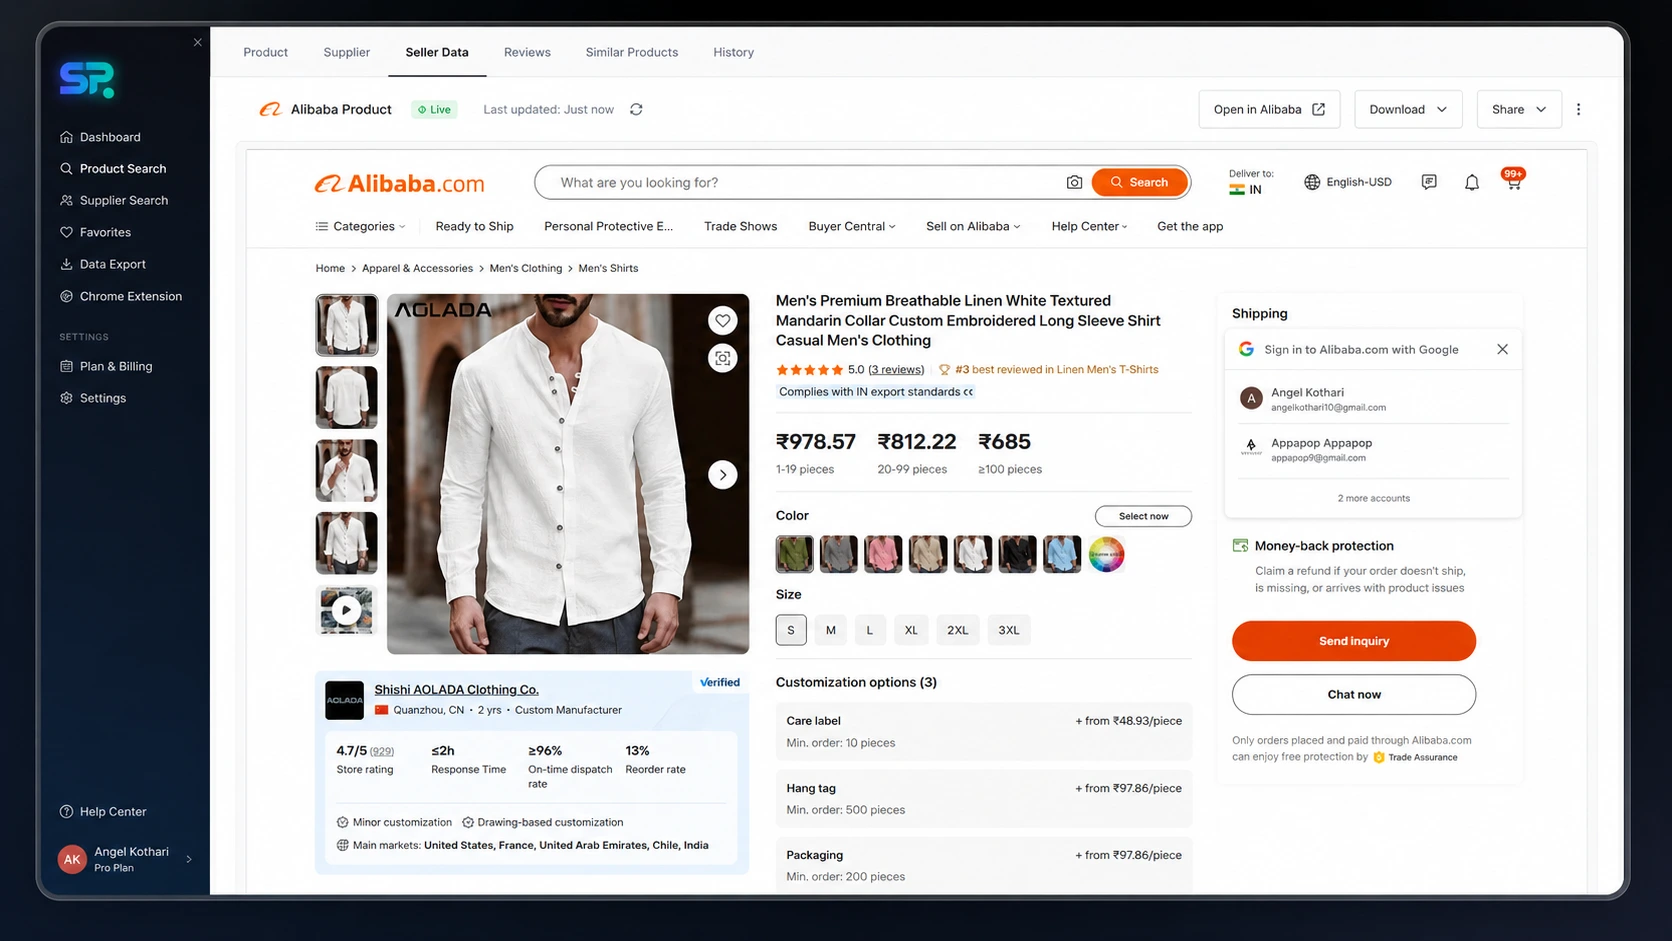
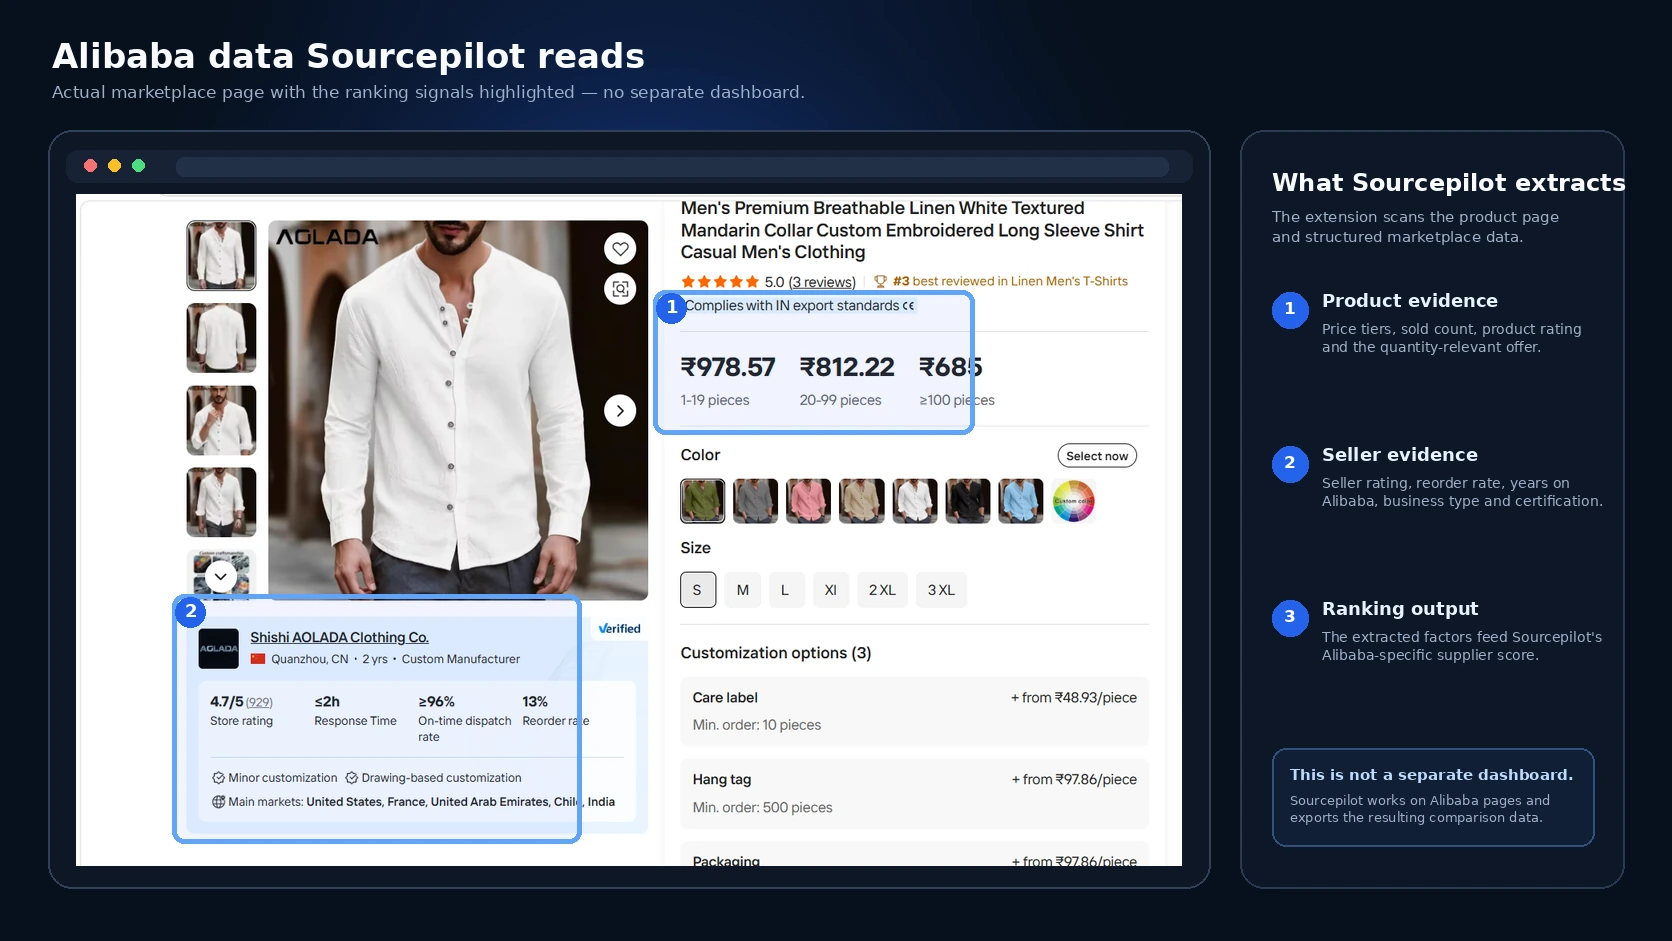
Add files via upload

diff --git a/styles.css b/styles.css
@@ -121,7 +121,7 @@ p { color: var(--muted); }
 
 .hero { position: relative; overflow: hidden; padding: 118px 0 88px; }
 .hero::before { content: ""; position: absolute; inset: 0; pointer-events: none; background-image: linear-gradient(rgba(148,163,184,.035) 1px, transparent 1px), linear-gradient(90deg, rgba(148,163,184,.035) 1px, transparent 1px); background-size: 48px 48px; mask-image: linear-gradient(to bottom, #000, transparent 92%); }
-.hero-grid { position: relative; display: grid; grid-template-columns: 1.05fr .95fr; align-items: center; gap: 64px; }
+.hero-grid { position: relative; display: grid; grid-template-columns: .78fr 1.22fr; align-items: center; gap: 44px; }
 .hero-copy { position: relative; z-index: 2; }
 .hero-copy > p { max-width: 690px; margin-bottom: 34px; font-size: clamp(1.05rem, 2vw, 1.25rem); }
 .hero-badge { display: inline-flex; align-items: center; gap: 9px; margin-bottom: 26px; padding: 7px 12px; border: 1px solid rgba(96,165,250,.23); border-radius: 999px; color: #bfdbfe; background: rgba(30,64,175,.14); font-size: .78rem; font-weight: 800; letter-spacing: .07em; text-transform: uppercase; }
@@ -129,7 +129,7 @@ p { color: var(--muted); }
 .hero-actions { display: flex; flex-wrap: wrap; gap: 14px; margin-bottom: 30px; }
 .hero-points { display: flex; flex-wrap: wrap; gap: 11px 20px; padding: 0; margin: 0; list-style: none; color: #cbd5e1; font-size: .88rem; }
 .hero-points li::before { content: "✓"; margin-right: 7px; color: #4ade80; font-weight: 900; }
-.hero-card { position: relative; }
+.hero-card { position: relative; width: 108%; margin-left: -3%; }
 .hero-card::before { content: ""; position: absolute; inset: -16px; border-radius: 32px; background: linear-gradient(135deg, rgba(59,130,246,.32), rgba(139,92,246,.05)); filter: blur(28px); opacity: .65; }
 .hero-showcase-image { display: block; width: 100%; height: auto; border: 1px solid rgba(148,163,184,.2); border-radius: 24px; box-shadow: var(--shadow); background: #07101d; }
 .browser-frame { position: relative; overflow: hidden; border: 1px solid rgba(148,163,184,.2); border-radius: 24px; background: #0b1322; box-shadow: var(--shadow); }
@@ -264,7 +264,7 @@ details p { padding: 0 22px 22px; margin-bottom: 0; }
   .hero-copy { text-align: center; }
   .hero-copy > p { margin-inline: auto; }
   .hero-actions, .hero-points { justify-content: center; }
-  .hero-card { max-width: 780px; margin: 25px auto 0; }
+  .hero-card { width: 100%; max-width: 900px; margin: 25px auto 0; }
   .demo-summary { grid-template-columns: 1fr; gap: 24px; }
   .problem-grid, .feature-grid, .pricing-grid { grid-template-columns: repeat(2, 1fr); }
   .pricing-grid .price-card:last-child { grid-column: 1 / -1; }

diff --git a/index.html b/index.html
@@ -117,14 +117,14 @@
 
           <div class="demo-panel" role="tabpanel" data-demo-panel="alibaba">
             <div class="demo-media">
-              <img src="demo-alibaba.webp" width="1672" height="941" alt="Alibaba product page showing seller rating, reorder rate, business type and pricing tiers">
+              <img src="demo-alibaba.webp" width="1672" height="941" alt="Actual Alibaba product page annotated to show the product and seller data Sourcepilot extracts">
               <a class="demo-expand" href="demo-alibaba.webp" target="_blank" rel="noopener">Open full-size image ↗</a>
             </div>
             <div class="demo-summary">
               <div class="demo-copy">
                 <span class="platform-label">Alibaba workflow</span>
-                <h3>Use seller and product evidence—not one headline number</h3>
-                <p>Sourcepilot reads supplier and product indicators that are spread across Alibaba product pages and embedded marketplace data.</p>
+                <h3>See exactly which Alibaba signals feed the ranking</h3>
+                <p>The highlighted areas show the actual Alibaba product and seller signals Sourcepilot collects before calculating its Alibaba-specific supplier ranking.</p>
               </div>
               <ul class="demo-points"><li>Seller and product ratings</li><li>Reorder rate and years on Alibaba</li><li>Trade Assurance and certification</li><li>Business type, revenue indicators and sold count</li></ul>
             </div>

diff --git a/config.js b/config.js
@@ -1,13 +1,14 @@
-/*
-  SOURCEPILOT WEBSITE CONFIGURATION
-  Replace the empty URLs and support email before publishing.
-*/
+/* Sourcepilot website configuration */
 window.SOURCEPILOT_CONFIG = {
   siteUrl: "https://sourcepilot-app.github.io/",
   supportEmail: "",
   chromeWebStoreUrl: "",
+
+  // The no-card 7-day trial is handled by the Sourcepilot app/backend, not Dodo Payments.
   trialCheckoutUrl: "",
-  starterCheckoutUrl: "",
-  proCheckoutUrl: "https://sourcepilot.lemonsqueezy.com/checkout/buy/b60c69d2-de4e-4a04-a1cf-eab423325910",
-  lifetimeCheckoutUrl: ""
+
+  // Dodo Payments hosted checkout links.
+  starterCheckoutUrl: "https://checkout.dodopayments.com/buy/pdt_0NkTTKNzQFFZrWp9jL04a?quantity=1",
+  proCheckoutUrl: "https://checkout.dodopayments.com/buy/pdt_0NkTT6dP7jmSpOUVS5xou?quantity=1",
+  lifetimeCheckoutUrl: "https://checkout.dodopayments.com/buy/pdt_0NkTQ8TRw54f8tZi0Z8Sq?quantity=1"
 };

diff --git a/script.js b/script.js
@@ -29,7 +29,11 @@
       link.href = '#pricing';
       link.addEventListener('click', (event) => {
         event.preventDefault();
-        showToast(`${plan.charAt(0).toUpperCase() + plan.slice(1)} checkout is not configured yet. Add the URL in config.js before publishing.`);
+        if (plan === 'trial') {
+          showToast('The no-card 7-day trial needs the Sourcepilot trial backend before it can activate. Starter, Pro and Lifetime checkout links are live below.');
+        } else {
+          showToast(`${plan.charAt(0).toUpperCase() + plan.slice(1)} checkout is not configured yet.`);
+        }
         document.querySelector('#pricing')?.scrollIntoView({ behavior: 'smooth' });
       });
     }

diff --git a/terms.html b/terms.html
@@ -4,7 +4,7 @@
   <meta charset="utf-8"><meta name="viewport" content="width=device-width, initial-scale=1">
   <title>Terms of Service — Sourcepilot</title>
   <meta name="description" content="Sourcepilot terms of service."><meta name="theme-color" content="#060b14">
-  <link rel="icon" href="favicon.svg" type="image/svg+xml"><link rel="stylesheet" href="styles.css">
+  <link rel="icon" href="assets/favicon.svg" type="image/svg+xml"><link rel="stylesheet" href="styles.css">
   <script src="config.js" defer></script><script src="script.js" defer></script>
 </head>
 <body>

diff --git a/privacy.html b/privacy.html
@@ -4,7 +4,7 @@
   <meta charset="utf-8"><meta name="viewport" content="width=device-width, initial-scale=1">
   <title>Privacy Policy — Sourcepilot</title>
   <meta name="description" content="Sourcepilot privacy policy."><meta name="theme-color" content="#060b14">
-  <link rel="icon" href="favicon.svg" type="image/svg+xml"><link rel="stylesheet" href="styles.css">
+  <link rel="icon" href="assets/favicon.svg" type="image/svg+xml"><link rel="stylesheet" href="styles.css">
   <script src="config.js" defer></script><script src="script.js" defer></script>
 </head>
 <body>

diff --git a/refund.html b/refund.html
@@ -4,7 +4,7 @@
   <meta charset="utf-8"><meta name="viewport" content="width=device-width, initial-scale=1">
   <title>Refund Policy — Sourcepilot</title>
   <meta name="description" content="Sourcepilot refund policy."><meta name="theme-color" content="#060b14">
-  <link rel="icon" href="favicon.svg" type="image/svg+xml"><link rel="stylesheet" href="styles.css">
+  <link rel="icon" href="assets/favicon.svg" type="image/svg+xml"><link rel="stylesheet" href="styles.css">
   <script src="config.js" defer></script><script src="script.js" defer></script>
 </head>
 <body>

diff --git a/README.md b/README.md
@@ -35,8 +35,7 @@ The Privacy Policy, Terms of Service and Refund Policy are practical launch temp
 - `privacy.html` — privacy policy
 - `terms.html` — terms of service
 - `refund.html` — refund policy
-- `demo-1688.webp`, `demo-alibaba.webp`, `demo-csv.webp` — product screenshots
-- `favicon.svg`, `og-card.svg` — site and social graphics
+- `assets/` — product screenshots, favicon and social card
 
 ## Publish on GitHub Pages
 
